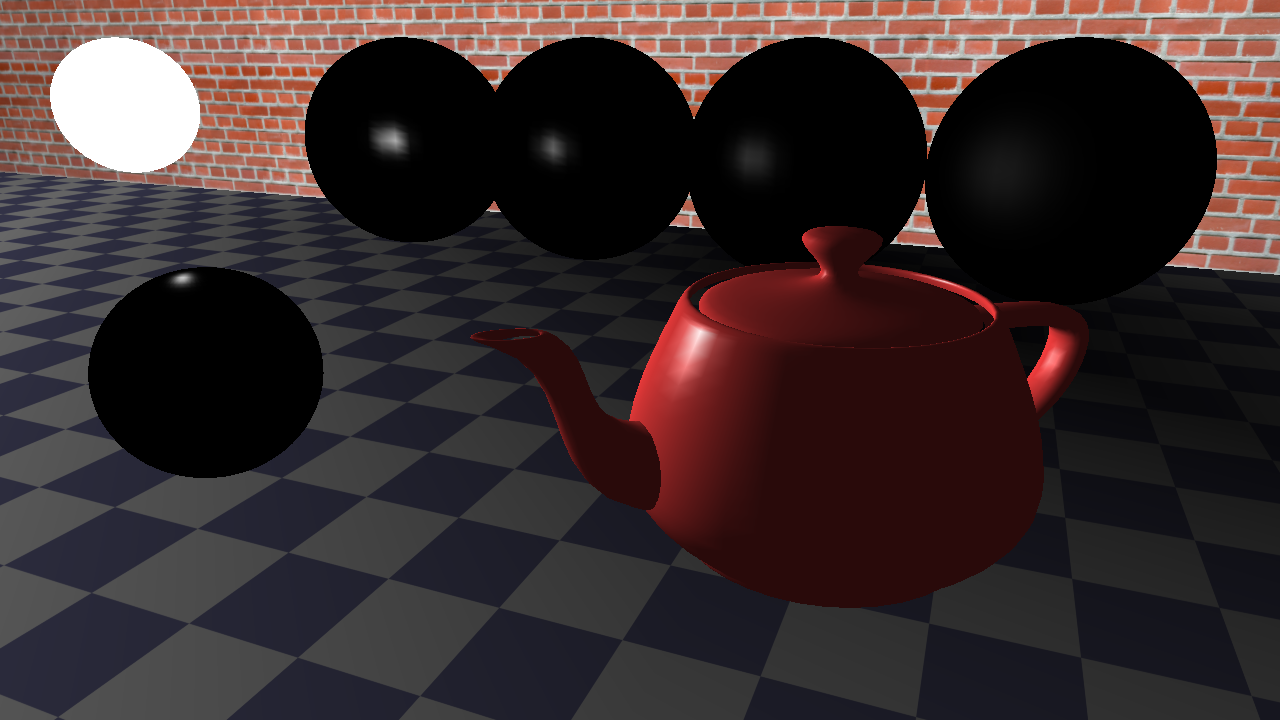
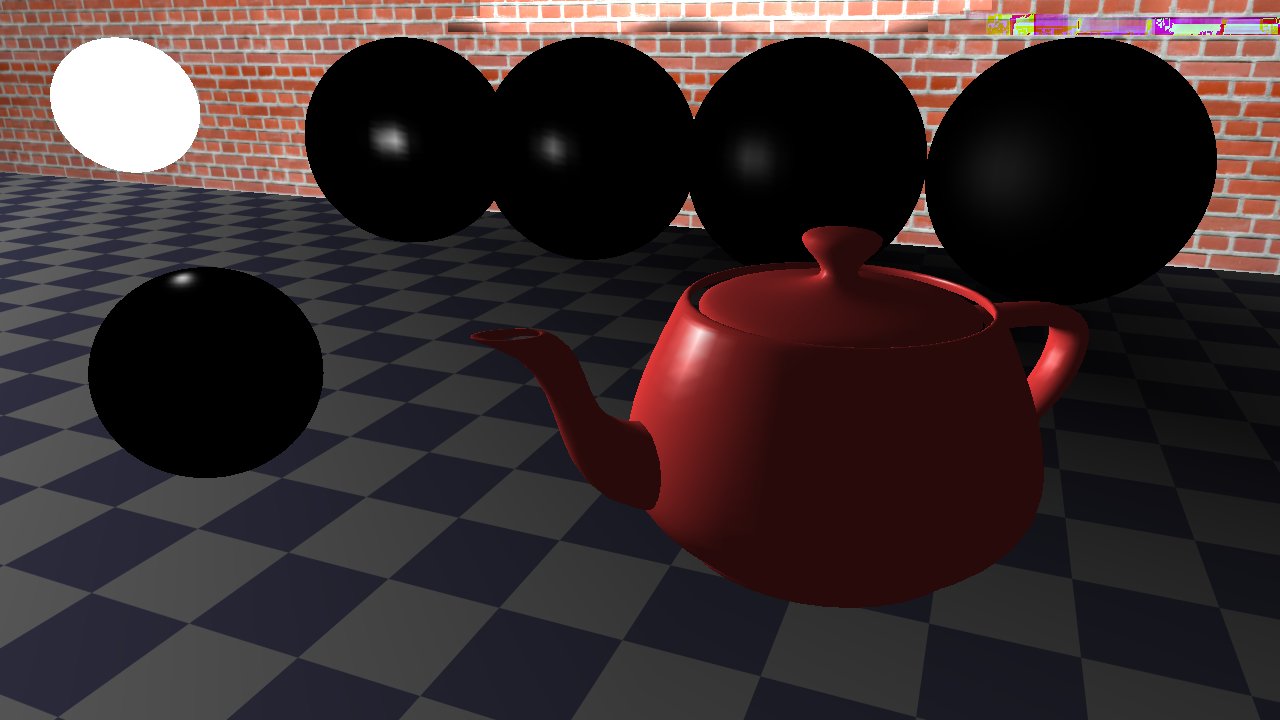
Glossiness ACHIEVED

Changed region(s): [[0.3438, 0.0, 1.0, 0.0611]]

diff --git a/RayTracer/materials.cpp b/RayTracer/materials.cpp
@@ -72,14 +72,12 @@ Color PointLight::Illuminate(ShadeInfo const& sInfo, Vec3f& dir)  const
  * @param t_max Maximum distance to test (typically distance to the light).
  * @return 0.0 if the ray is occluded (in shadow), 1.0 if unoccluded (lit).
  */
-float ShadowInfo::TraceShadowRay(Ray const& ray, float t_max) const
+inline float ShadowInfo::TraceShadowRay(Ray const& ray, float t_max) const
 {
-	if (renderer->TraceShadowRay(ray, t_max)) return 0.0;
-
-	return 1.0;
+	return renderer->TraceShadowRay(ray, t_max) ? 0.0f : 1.0f;
 }
 
-bool ShadowInfo::CanBounce() const
+inline bool ShadowInfo::CanBounce() const
 {
 	return bounceC < renderer->bounceCount;
 }
@@ -88,6 +86,18 @@ Color ShadowInfo::TraceSecondaryRay(Ray const& ray, float& dist, bool reflection
 {
 	HitInfo hit;
 	hit.Init();
+	
+	if (reflection)
+	{
+		if (ray.dir.Dot(this->N()) < 0) {
+			ShadowInfo si = *this;
+			hit = hInfo;
+			si.SetHit(ray, hit);
+			si.bounceC++;
+			auto* mat = hit.node->GetMaterial();
+			return mat->Shade(si);
+		}
+	}
 
 	if (renderer->TraceRay(ray, hit, HIT_FRONT_AND_BACK))
 	{
@@ -117,6 +127,14 @@ Color ShadowInfo::TraceSecondaryRay(Ray const& ray, float& dist, bool reflection
 	return Color(0, 0, 0);
 }
 
+float ShadowInfo::GetHaltonPhi(int index) const {
+	return haltonPhi[index];
+}
+
+float ShadowInfo::GetHaltonTheta(int index) const {
+	return haltonTheta[index];
+}
+
 Color MtlPhong::Shade(ShadeInfo const& info) const
 {
 	return Color(255, 255, 255);
@@ -133,16 +151,36 @@ Color MtlPhong::Shade(ShadeInfo const& info) const
  * @param HitSide     Flags specifying which surface sides to consider.
  * @return Color contribution from the reflected ray.
 // */
-TexturedColor ReflectRay(ShadeInfo const& info, int HitSide, Color absorption)
+TexturedColor ReflectRay(ShadeInfo const& info, int HitSide, Color absorption, TexturedFloat glossiness)
 {
 	cyVec3f reflectView = info.V();
-	float dot = info.N().Dot(reflectView);
-	cyVec3f reflectionDir = (2 * dot) * info.N() - reflectView;
+	cyVec3f norm = info.N();
+
+	//Glossiness Sampling
+	float offsetPhi = info.RandomFloat();
+	float offsetTheta = info.RandomFloat();
+	float phi = 2.0f * M_PI * fmod(info.GetHaltonPhi(info.CurrentPixelSample()) + offsetPhi, 1.0f);
+	float cosTheta = pow(fmod(info.GetHaltonTheta(info.CurrentPixelSample()) + offsetTheta, 1.0f), 1.0f / (glossiness.GetValue() + 1.0f));
+	float sinTheta = sqrt(1.0f - (cosTheta * cosTheta));
+
+	float x = sinTheta * cos(phi);
+	float y = sinTheta * sin(phi);
+	float z = cosTheta;
+
+	Vec3f tangent, bitangent;
+	norm.GetOrthonormals(tangent, bitangent);
+
+	Vec3f HTransformed = (x * tangent) + (y * bitangent) + (z * norm);
+
+	//Find final direction
+	float dot = HTransformed.Dot(reflectView);
+	cyVec3f reflectionDir = (2 * dot) * HTransformed - reflectView;
 	reflectionDir.Normalize();
 
 	Ray reflect(info.P(), reflectionDir);
 	float dist;
 
+	//Reflect Ray
 	Color reflectCol = info.TraceSecondaryRay(reflect, dist, true);
 	if (dist > 0.0f && (absorption.r > 0.0f || absorption.g > 0.0f || absorption.b > 0.0f)) {
 		reflectCol.r *= expf(-absorption.r * dist);
@@ -162,7 +200,7 @@ TexturedColor ReflectRay(ShadeInfo const& info, int HitSide, Color absorption)
  * @param absorption  Absorption color.
  * @return Color contribution from the refracted (or reflected) ray.
  */
-TexturedColor RefractRay(float ior, ShadeInfo const& info, Color absorption)
+TexturedColor RefractRay(float ior, ShadeInfo const& info, Color absorption, TexturedFloat glossiness)
 {
 	cyVec3f refractView = info.V();
 	float eta;
@@ -171,13 +209,30 @@ TexturedColor RefractRay(float ior, ShadeInfo const& info, Color absorption)
 	Ray refract;
 	float eps = 1e-4f;
 
+	//Glossiness Sampling
+	float offsetPhi = info.RandomFloat();
+	float offsetTheta = info.RandomFloat();
+	float phi = 2.0f * M_PI * fmod(info.GetHaltonPhi(info.CurrentPixelSample()) + offsetPhi, 1.0f);
+	float cosTheta = pow(fmod(info.GetHaltonTheta(info.CurrentPixelSample()) + offsetTheta, 1.0f), 1.0f / (glossiness.GetValue() + 1.0f));
+	float sinTheta = sqrt(1.0f - (cosTheta * cosTheta));
+
+	float x = sinTheta * cos(phi);
+	float y = sinTheta * sin(phi);
+	float z = cosTheta;
+
+	Vec3f tangent, bitangent;
+	info.N().GetOrthonormals(tangent, bitangent);
+
+	Vec3f HTransformed = (x * tangent) + (y * bitangent) + (z * info.N());
+	HTransformed.Normalize();
+
 	if (info.IsFront())
 	{
 		eta = 1 / ior;
 		float etaSq = eta * eta;
-		float NdotV = refractView.Dot(info.N());
+		float NdotV = refractView.Dot(HTransformed);
 		cosThetaT = sqrtf(1 - etaSq * (1 - NdotV * NdotV));
-		refractDir = -eta * refractView - (cosThetaT - eta * NdotV) * info.N();
+		refractDir = -eta * refractView - (cosThetaT - eta * NdotV) * HTransformed;
 		refract = Ray(info.P(), refractDir.GetNormalized());
 		float sign = refract.dir.Dot(info.N()) > 0.0f ? 1.0f : -1.0f;
 		refract.p += info.N() * (eps * sign);
@@ -185,18 +240,19 @@ TexturedColor RefractRay(float ior, ShadeInfo const& info, Color absorption)
 	else
 	{
 		eta = ior;
+		cyVec3f H_back = -HTransformed;
 		cyVec3f negN = -info.N();
-		float NdotV = refractView.Dot(negN);
+		float NdotV = refractView.Dot(H_back);
 		float etaSq = eta * eta;
-		float cosThetaSquared = (1 - etaSq * (1 - NdotV * NdotV));
+		float cosThetaSquared = (1.0 - etaSq * (1 - NdotV * NdotV));
 
 		if (cosThetaSquared < 0.0f)
 		{
-			return ReflectRay(info, HIT_FRONT_AND_BACK, absorption);
+			return ReflectRay(info, HIT_FRONT_AND_BACK, absorption, glossiness);
 		}
 
 		cosThetaT = sqrtf(cosThetaSquared);
-		refractDir = -eta * refractView - (cosThetaT - eta * NdotV) * negN;
+		refractDir = -eta * refractView - (cosThetaT - eta * NdotV) * H_back;
 		refract = Ray(info.P(), refractDir.GetNormalized());
 		float sign = refract.dir.Dot(negN) > 0.0f ? 1.0f : -1.0f;
 		refract.p += negN * (eps * sign);
@@ -232,7 +288,6 @@ Color MtlBlinn::Shade(ShadeInfo const &info) const
 	Color kd = this->Diffuse().Eval(info.UVW());
 	Color ks = this->Specular().Eval(info.UVW());
 	float alpha = this->Glossiness().Eval(info.UVW());
-
 	
 	Color fullReflection = reflection;
 	float matior = this->ior;
@@ -241,7 +296,7 @@ Color MtlBlinn::Shade(ShadeInfo const &info) const
 
 	if (needsRefraction)
 	{
-		refractCol = refraction * RefractRay(this->ior, info, this->absorption).Eval(info.UVW());
+		refractCol = refraction * RefractRay(this->ior, info, this->absorption, this->glossiness).Eval(info.UVW());
 
 		//Fresnel Effect
 		float iorRatio = (1.0f - matior) / (1.0f + matior);
@@ -252,7 +307,7 @@ Color MtlBlinn::Shade(ShadeInfo const &info) const
 
 	if (fullReflection != Color(0,0,0) && info.CanBounce())
 	{
-		reflectCol = fullReflection * ReflectRay(info, HIT_FRONT_AND_BACK, this->absorption).Eval(info.UVW());
+		reflectCol = fullReflection * ReflectRay(info, HIT_FRONT_AND_BACK, this->absorption, this->glossiness).Eval(info.UVW());
 	}
 	
 	for (int i = 0; i < info.NumLights(); i++)

diff --git a/RayTracer/RayTracer.cpp b/RayTracer/RayTracer.cpp
@@ -6,6 +6,7 @@
 #include <iostream>
 #include <thread>
 #include <atomic>
+#include <vector>
 
 #define DEG2RAD(degrees) ((degrees) * M_PI / 180.0)
 
@@ -54,11 +55,12 @@ void RayTracer::RunThread(std::atomic<int>& nextTile, int totalTiles, int tilesX
 				HaltonSeq<64> haltonDiscY(7);
 				RNG rng(index);
 				float randomOffset = rng.RandomFloat();
+				float randomOffsetY = rng.RandomFloat();
 				int totalSamples = 0;
 
 
 				//Adaptive Sampling loop
-				for(int i = 0; i < 64; i++)
+				for(int i = 0; i < 128; i++)
 				{
 					float haltonValueX = haltonX[i] + randomOffset;
 					if(haltonValueX > 1.0f)
@@ -75,7 +77,7 @@ void RayTracer::RunThread(std::atomic<int>& nextTile, int totalTiles, int tilesX
 
 					//Depth of Field
 					float discX = haltonDiscX[i] + randomOffset;
-					float discY = haltonDiscY[i] + randomOffset;
+					float discY = haltonDiscY[i] + randomOffsetY;
 					if(discX > 1.0f)
 						discX -= 1.0f;
 					if (discY > 1.0f)
@@ -97,11 +99,11 @@ void RayTracer::RunThread(std::atomic<int>& nextTile, int totalTiles, int tilesX
 					//Ray Generation 
 					Ray ray = Ray(offsetCamera, rayDir);
 
-					Color tempColor = SendRay(i, ray, scrPos);
+					Color tempColor = SendRay(i, ray, scrPos, rng);
 					sumColor += tempColor;
 					sumColorSquared += tempColor * tempColor;
 
-					if (i >= 4)
+					if (i >= 8)
 					{
 						//Adaptive Sampling Calculation
 						float n = (float)(i + 1);
@@ -121,7 +123,7 @@ void RayTracer::RunThread(std::atomic<int>& nextTile, int totalTiles, int tilesX
 						}
 					}
 
-					if(i == 63)
+					if(i == 127)
 					{
 						totalSamples = i + 1;
 					}
@@ -137,7 +139,7 @@ void RayTracer::RunThread(std::atomic<int>& nextTile, int totalTiles, int tilesX
 	}
 }
 
-Color RayTracer::SendRay(int index, Ray ray, cyVec2f scrPos)
+Color RayTracer::SendRay(int index, Ray ray, cyVec2f scrPos, RNG rng)
 {
 	HitInfo hit;
 	hit.Init();
@@ -145,8 +147,8 @@ Color RayTracer::SendRay(int index, Ray ray, cyVec2f scrPos)
 
 	if (TraceRay(ray, hit, HIT_FRONT))
 	{
-		RNG rng(index);
 		ShadowInfo info = ShadowInfo(scene.lights, scene.environment, rng, this);
+		info.SetPixelSample(index);
 		info.SetHit(ray, hit);
 
 		if (!hit.light)

diff --git a/RayTracer/shadowInfo.h b/RayTracer/shadowInfo.h
@@ -4,14 +4,24 @@
 class ShadowInfo : public ShadeInfo
 {
 public:
-	ShadowInfo(std::vector<Light*> const& lightList, TexturedColor const& environment, RNG& r, RayTracer const* renderer) : ShadeInfo(lightList, environment, r), renderer(renderer) {};
+	ShadowInfo(std::vector<Light*> const& lightList, TexturedColor const& environment, RNG& r, RayTracer const* renderer) 
+		: ShadeInfo(lightList, environment, r), renderer(renderer) {
+		haltonPhi = HaltonSeq<64>(2);
+		haltonTheta = HaltonSeq<64>(3);
+	};
 
 
 	RayTracer const* renderer;
 	float TraceShadowRay(Ray   const& ray, float t_max = BIGFLOAT) const override;
 	Color TraceSecondaryRay(Ray const& ray, float& dist, bool reflection) const override;
 	bool CanBounce() const override;
+	float GetHaltonPhi(int index) const override;
+	float GetHaltonTheta(int index) const override;
 
 protected:
 	int bounceC = 0;
+
+	//Random halton Sequences
+	HaltonSeq<64> haltonPhi;
+	HaltonSeq<64> haltonTheta;
 };

diff --git a/RayTracer/renderer.h b/RayTracer/renderer.h
@@ -149,6 +149,11 @@ public:
 
     virtual float RandomFloat() const { return rng.RandomFloat(); }
 
+    virtual float GetPixelIndex() const { return pixelX + pixelY; }
+
+    virtual float GetHaltonPhi(int index) const { return 0; }
+    virtual float GetHaltonTheta(int index) const { return 0; }
+
     void SetPixel(int x, int y) { pixelX = x; pixelY = y; }
 
     void SetHit(Ray const& r, HitInfo const& h)

diff --git a/RayTracer/raytracer.h b/RayTracer/raytracer.h
@@ -24,7 +24,7 @@ class RayTracer : public Renderer
 		bool TraverseTree(const Ray& ray, const Node* node, HitInfo& hitInfo, int hitSide) const;
 		bool TraverseTreeShadow(const Ray& ray, const Node* node, float t_max) const;
 		void CreateCam2Wrld();
-		Color SendRay(int i, Ray ray, cyVec2f scrPos);
+		Color SendRay(int i, Ray ray, cyVec2f scrPos, RNG rng);
 
 	private:
 		const int tileSize = 32;

diff --git a/RayTracer/objects.cpp b/RayTracer/objects.cpp
@@ -91,7 +91,6 @@ bool Sphere::ShadowRay(Ray const& ray, float t_max) const {
 #define FAST_MIN(a, b) ((a) < (b) ? (a) : (b))
 #define FAST_MAX(a, b) ((a) > (b) ? (a) : (b))
 
-
 inline bool hitAABB(Ray ray, const float* bounds) {
     float b0 = bounds[0], b1 = bounds[1], b2 = bounds[2];
     float b3 = bounds[3], b4 = bounds[4], b5 = bounds[5];
